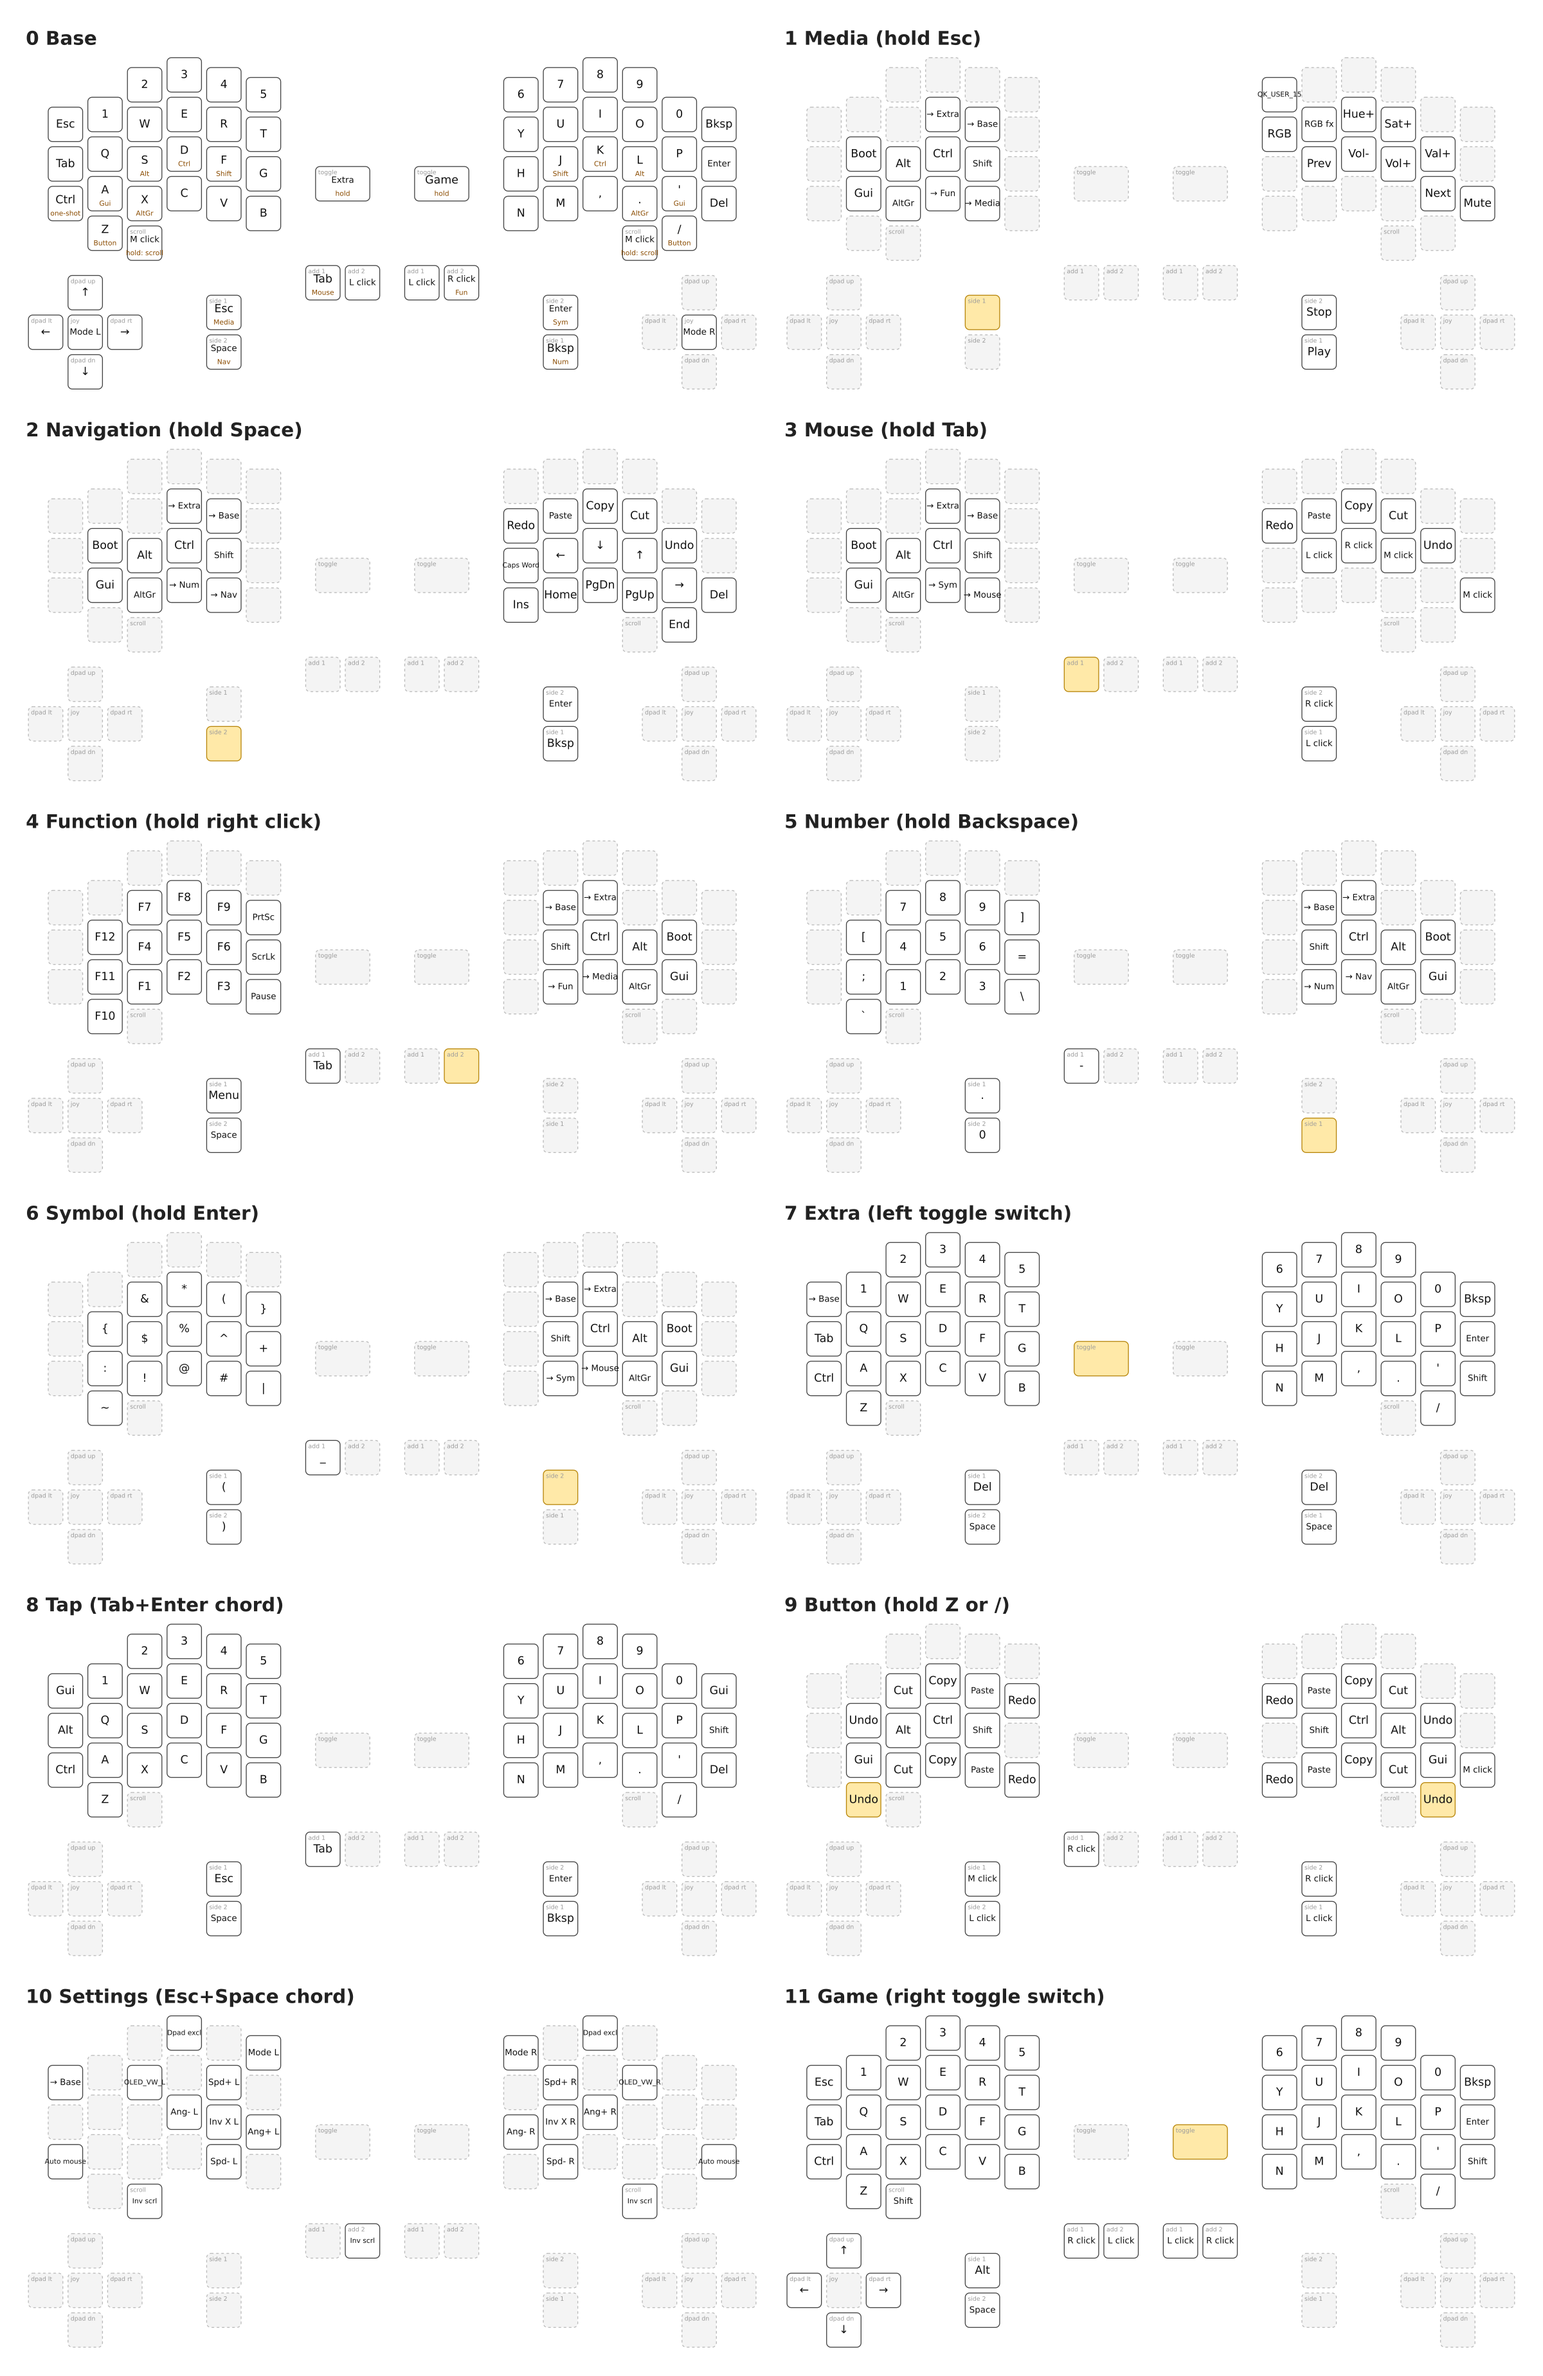
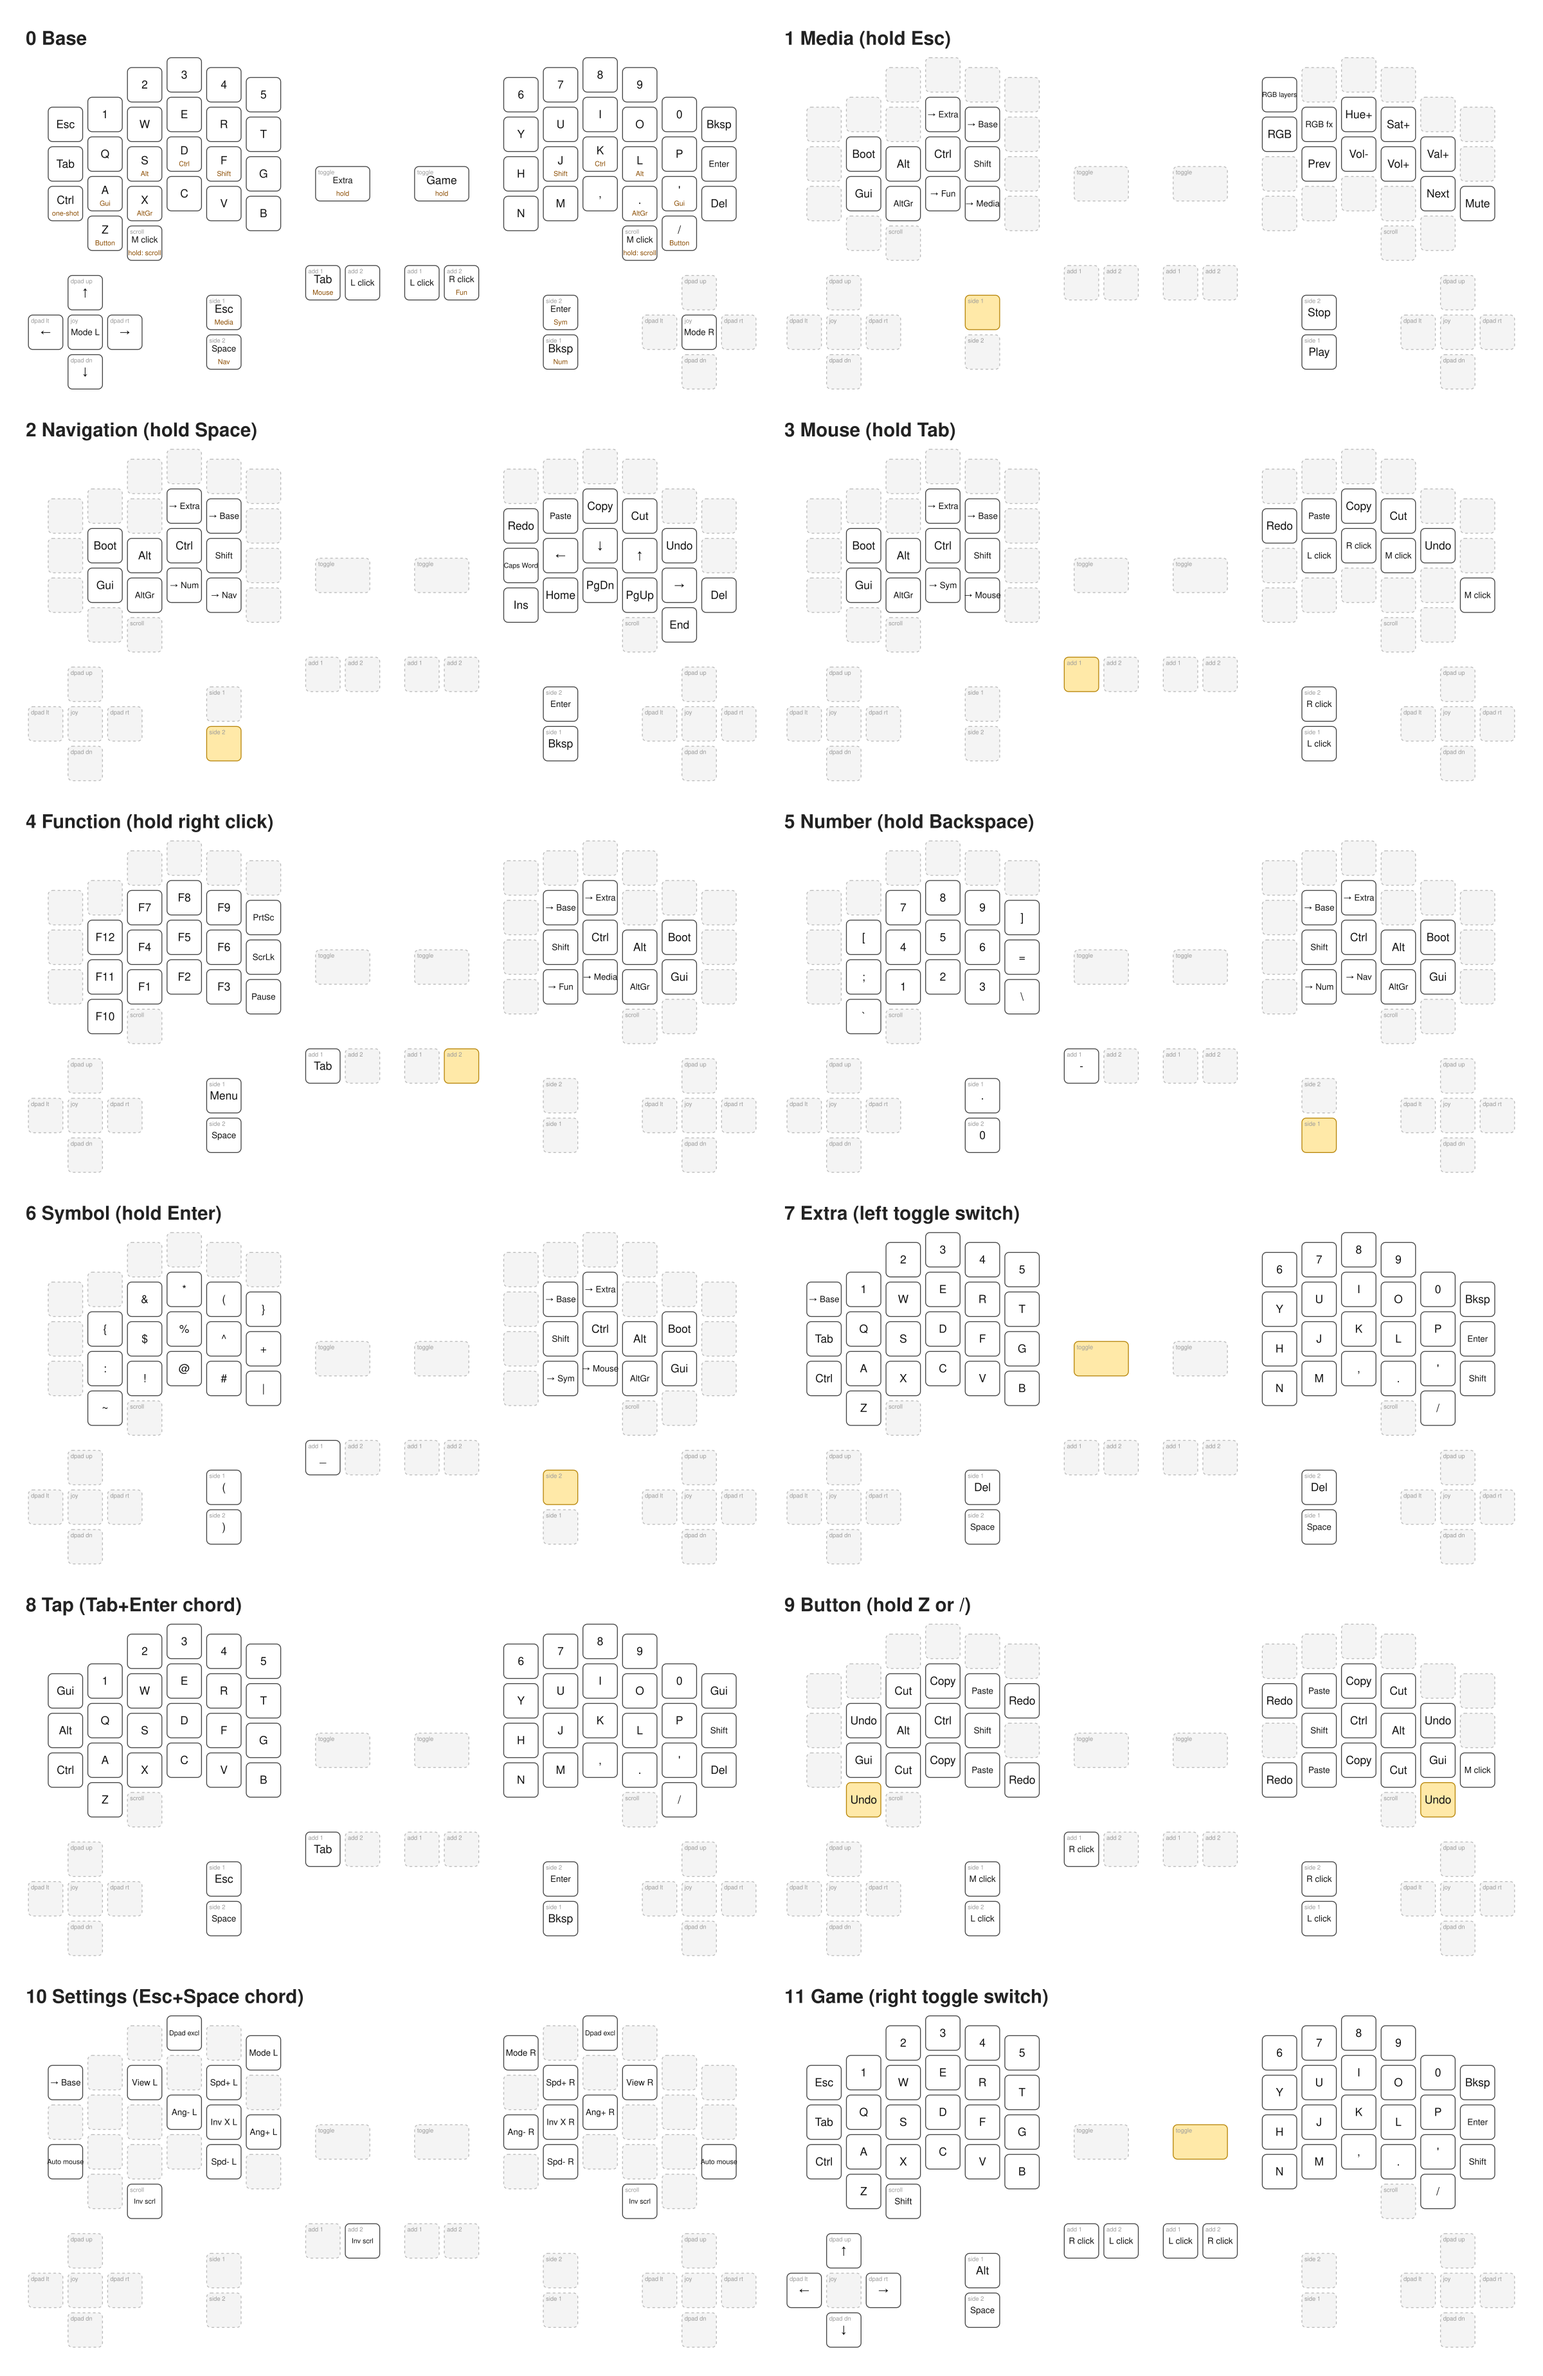
fix layer sheet legend for the renamed display keycodes

diff --git a/keyboards/killerwhale/duo/keymaps/miryoku/render_layers.py b/keyboards/killerwhale/duo/keymaps/miryoku/render_layers.py
@@ -67,7 +67,7 @@ SIMPLE = {
     "L_CHMOD": "Mode L", "R_CHMOD": "Mode R", "L_SPD_I": "Spd+ L", "L_SPD_D": "Spd- L", "R_SPD_I": "Spd+ R",
     "R_SPD_D": "Spd- R", "L_ANG_I": "Ang+ L", "L_ANG_D": "Ang- L", "R_ANG_I": "Ang+ R", "R_ANG_D": "Ang- R",
     "L_INV": "Inv X L", "R_INV": "Inv X R", "INV_SCRL": "Inv scrl", "AUTO_MOUSE": "Auto mouse",
-    "QK_USER_14": "Dpad excl", "OLED_VIEW": "Display",
+    "QK_USER_14": "Dpad excl", "QK_USER_15": "RGB layers", "OLED_VW_L": "View L", "OLED_VW_R": "View R",
 }
 SUB_ONLY = {"SCRL_BTN": ("M click", "hold: scroll")}
 MOD_TAP = {"LGUI_T": "Gui", "LALT_T": "Alt", "LCTL_T": "Ctrl", "LSFT_T": "Shift", "RSFT_T": "Shift", "RCTL_T": "Ctrl", "RGUI_T": "Gui", "RALT_T": "AltGr"}
